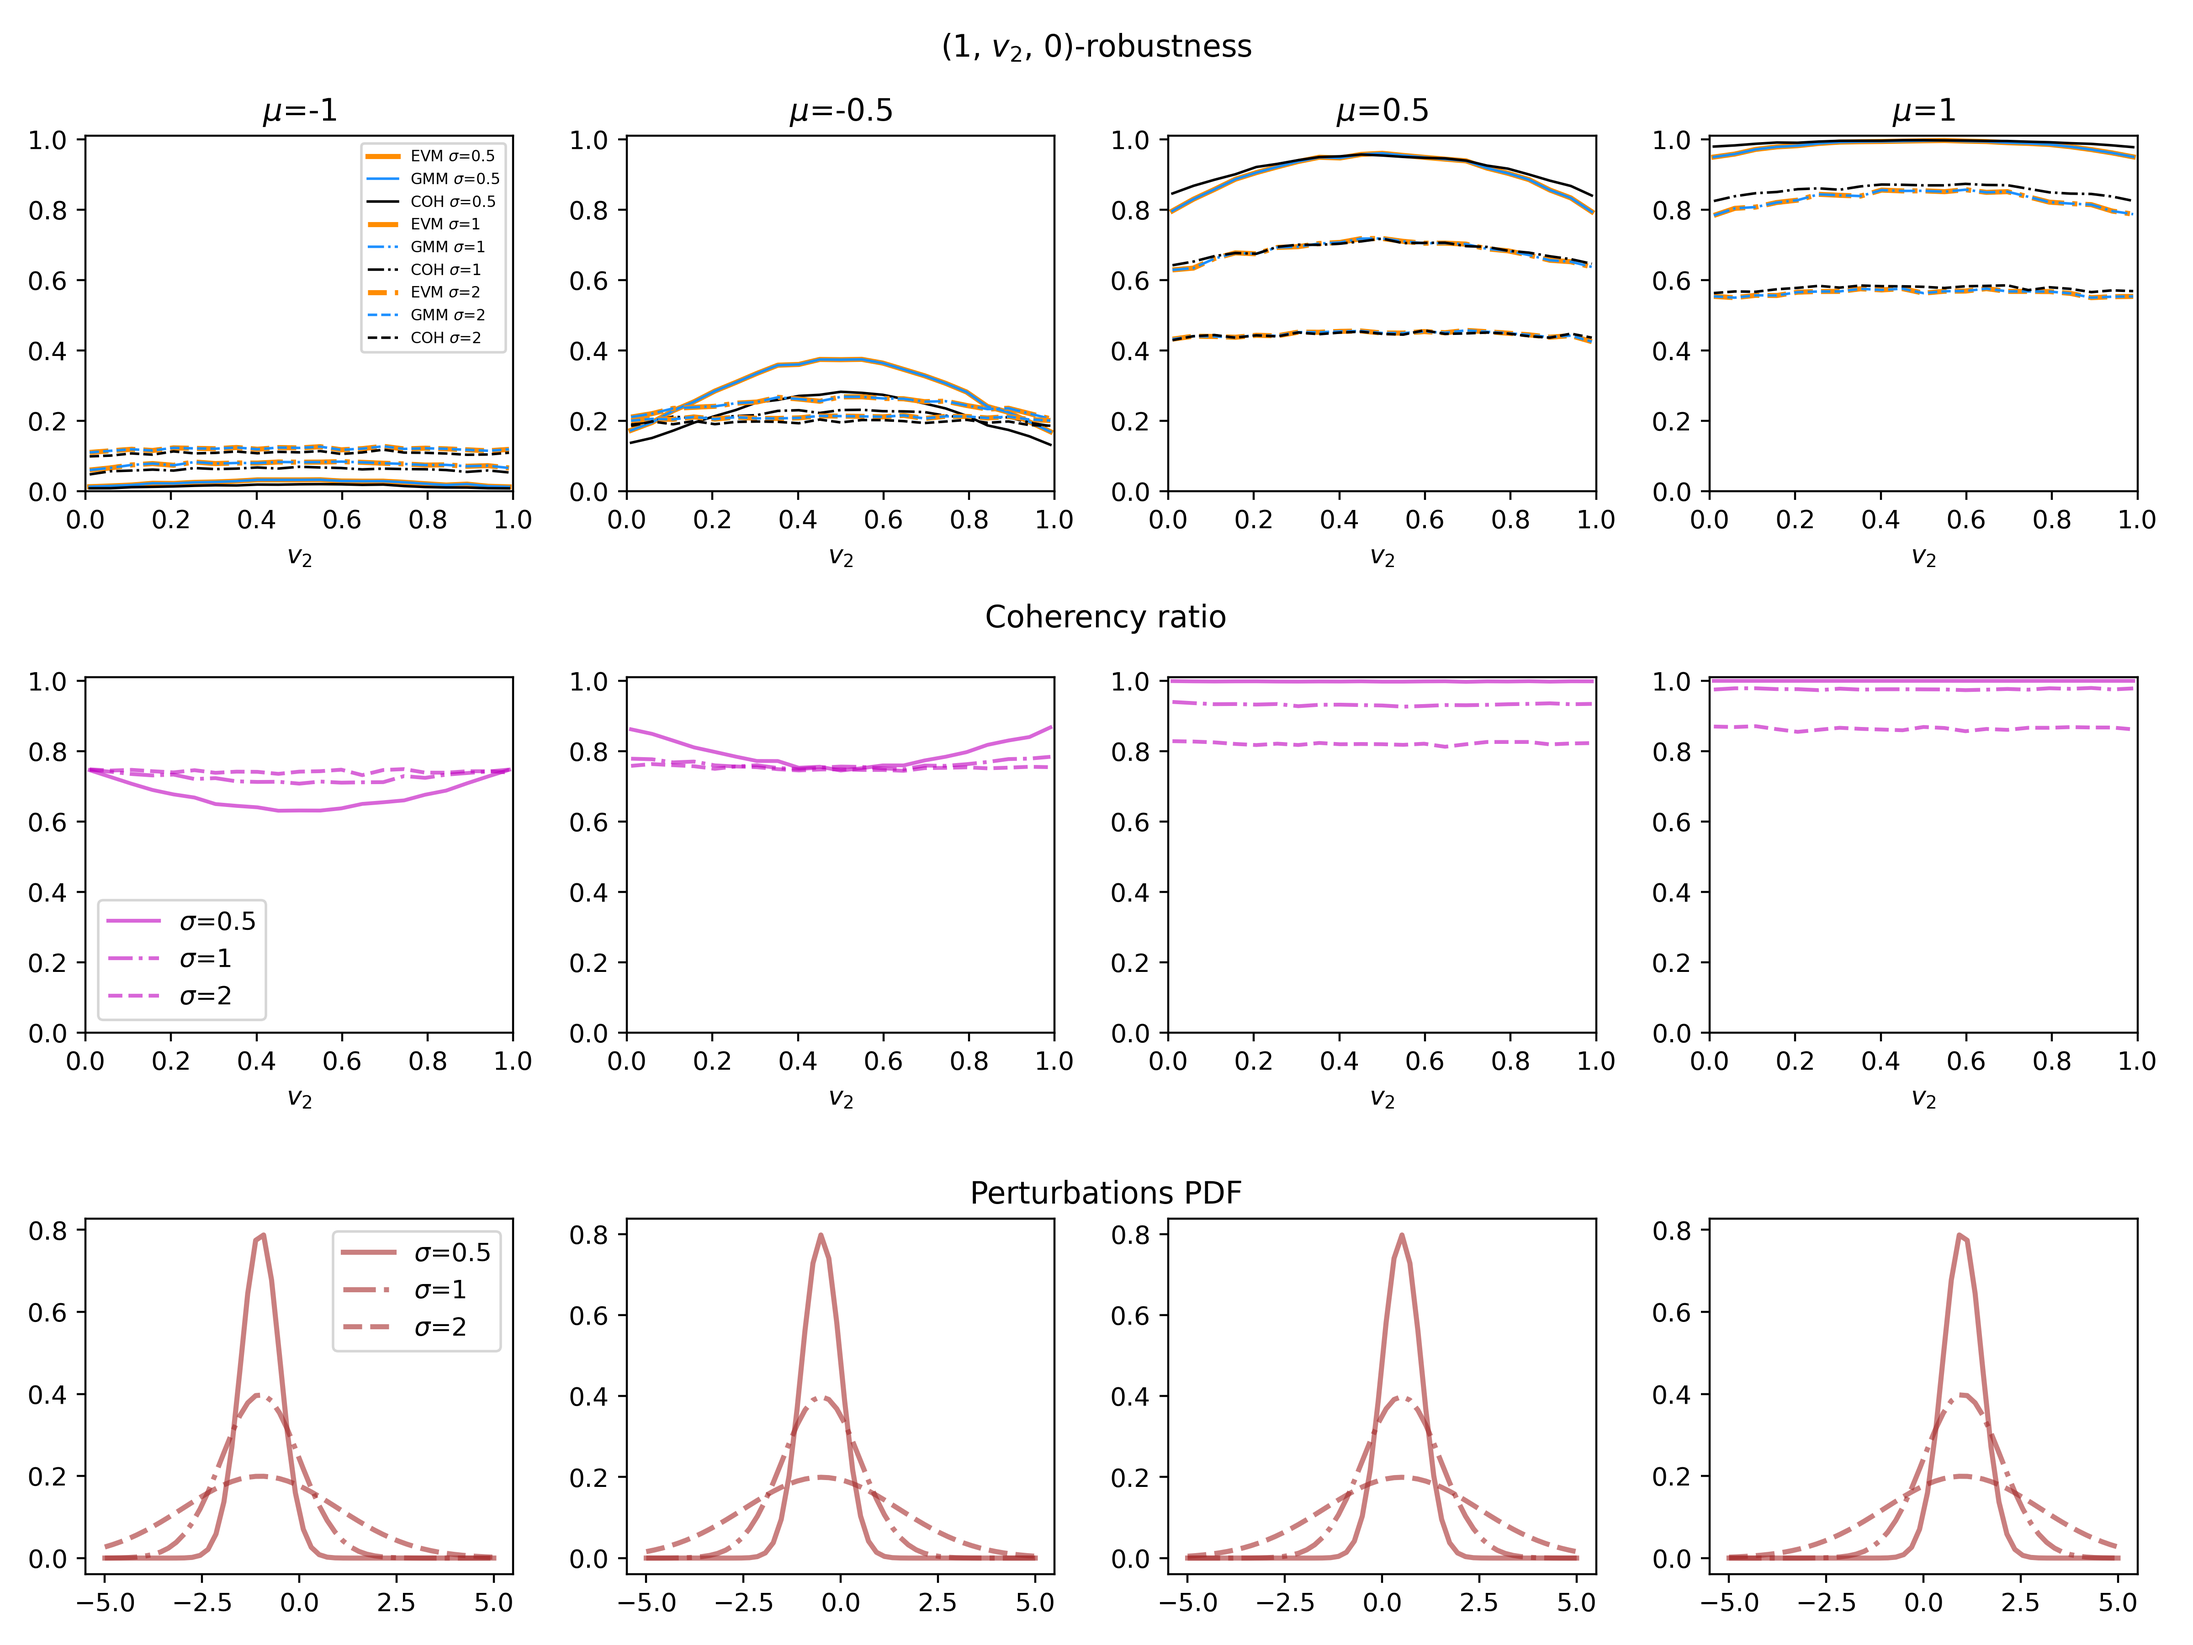
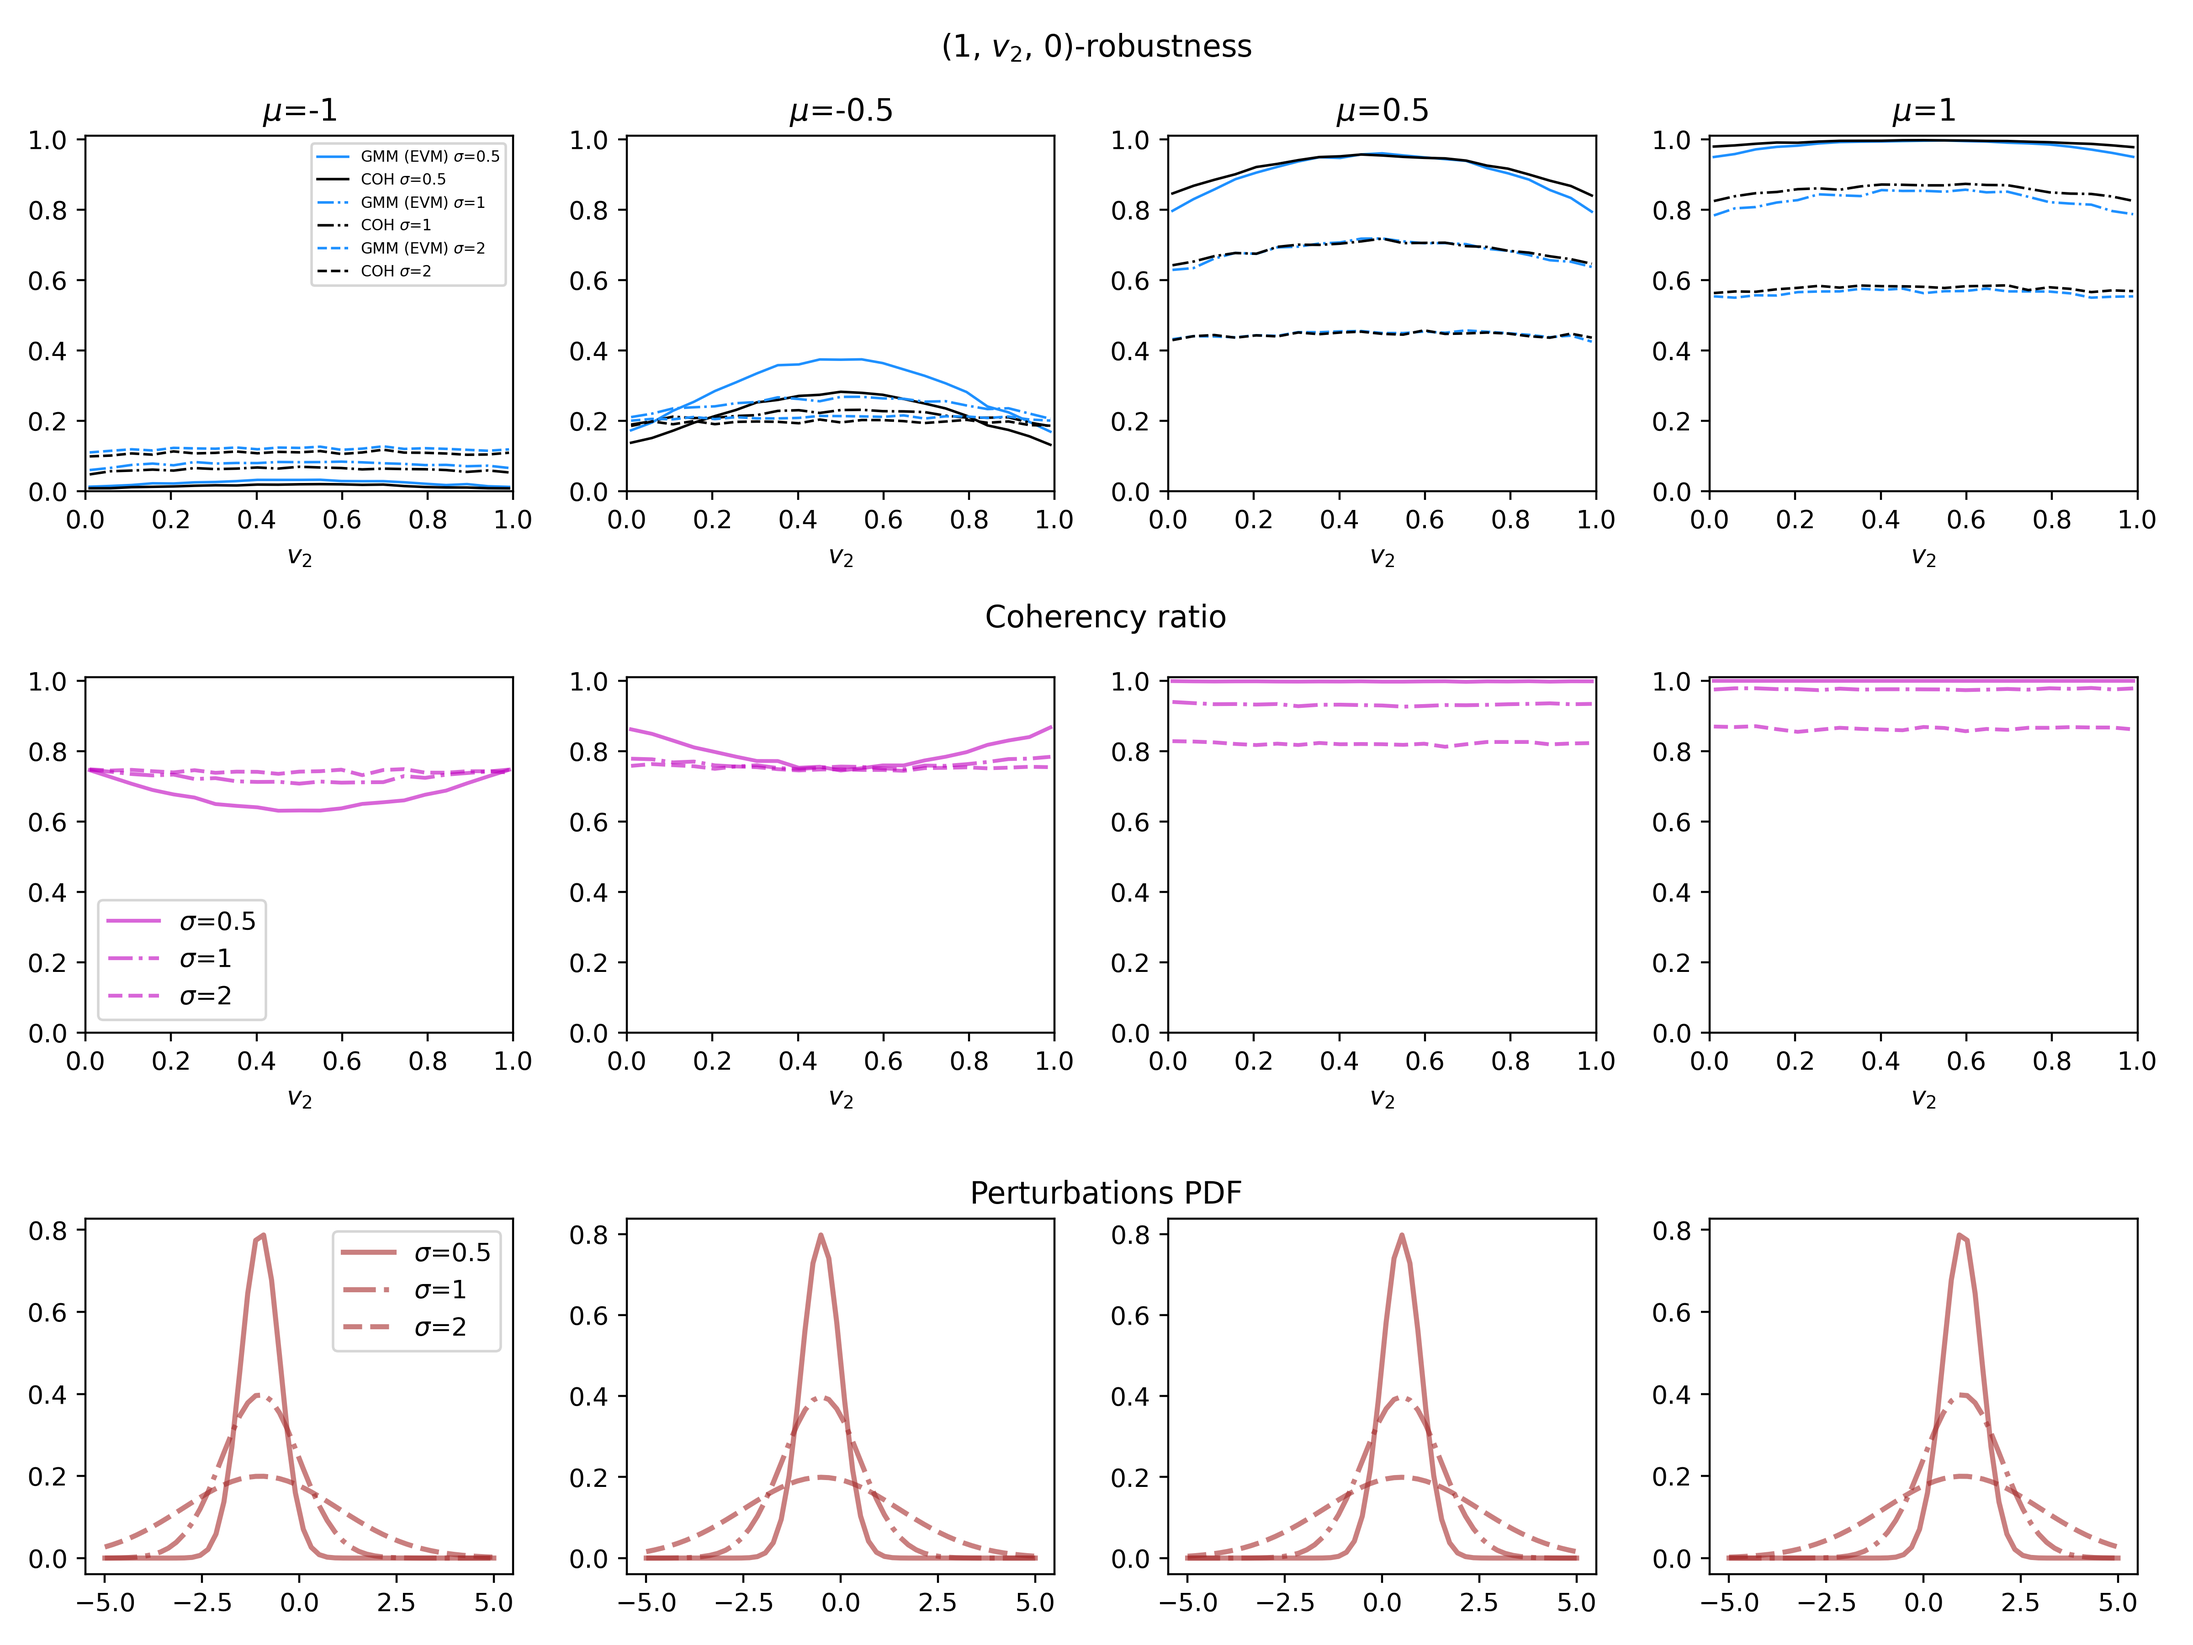
revisions done

diff --git a/robustness.py b/robustness.py
@@ -182,12 +182,13 @@ def plot_3D_one_type_R(robustness, cfg, v1, v2_space, v3):
     legend_rat = []
     for i_a, a in enumerate(robustness[first_sigma]):
         for i_sigma, sigma in enumerate(robustness):
-            for method in cfg.methods:
+            for method in cfg.methods[1:]: # as GMM and EVM coincide for n = 3, we show only one of these two
                 ax = axs[0, i_a]
                 ax.plot(v2_space, robustness[sigma][a]['cond_rough_' + method.name], ls = sigma_line_style[i_sigma], 
                         color = method.color, alpha = 1, lw = 2 if method.name == 'EVM' else 1)
                 if i_a == 0:
-                    legend.append(f'{method.name} ' r'$\sigma$=' + f'{sigma}')
+                    m_name = 'GMM (EVM)' if method.name == 'GMM' else method.name 
+                    legend.append(f'{m_name} ' r'$\sigma$=' + f'{sigma}')
             # coherence ratio
             ax = axs[1, i_a]
             ax.plot(v2_space, robustness[sigma][a]['COH_ratio'], ls = sigma_line_style[i_sigma], color = 'm', alpha = 0.6)
@@ -269,7 +270,7 @@ def plot_3D_analyt_COH(cfg):
             assert cfg.zero_mean_exp == True, "this plot serves just for cfg.zero_mean_exp = True exps"
             zero_mean_exp_f_addon = f'_ZME_{cfg.zero_mean_exp}'
             do_random_v_space_f_addon = f'_randv2_{cfg.do_random_v_space}'
-            res_fname = f'results/res_N_{N}{zero_mean_exp_f_addon}{do_random_v_space_f_addon}.bin'
+            res_fname = f'results/res_N_{N}{zero_mean_exp_f_addon}{do_random_v_space_f_addon}_COHonly_{cfg.coherent_PCMs_only}.bin'
             with open(res_fname, 'rb') as handle:
                 robustness, v1, v2_space, v3 = pickle.load(handle)    
             robustness = robustness[n] # robustness is computed just for n = 3, so take just these results
@@ -411,12 +412,13 @@ def sample_perturbed_PCMs(cfg):
     bins = np.linspace(0, 0.5, n_bins + 1) # linear space with n_bins bins
     if cfg.load_results:
         with open(res_fname, 'rb') as handle:
-            CRs, CR_hists = pickle.load(handle) 
+            CR_hists, CR_means = pickle.load(handle) 
     else: # compute results
         from config import SaatyEigenvectorMethod
         EVM = SaatyEigenvectorMethod() # we need only the EVM method here
-        CRs, CR_hists = defaultdict(lambda : {}), defaultdict(lambda : {})
+        CRs, CR_hists, CR_means = defaultdict(lambda : {}), defaultdict(lambda : {}), defaultdict(lambda : {})
         t_start = time()
+        np.random.seed(0) # replicability 
         for n in cfg.ns:
             for i_sigma, sigma in enumerate(cfg.sigmas):
                 if i_sigma == 0: # omit this plot as it is overlying with i_sigma == 1
@@ -430,10 +432,11 @@ def sample_perturbed_PCMs(cfg):
                     CRs[n][sigma].append(EVM.CR(noisy_pcm))
                 hist_counts = np.histogram(CRs[n][sigma], bins=bins)[0]
                 CR_hists[n][sigma] = hist_counts
+                CR_means[n][sigma] = np.mean(CRs[n][sigma])
         print(f'Computed in {int(time()-t_start)} s')
         # save results
         with open(res_fname, 'wb') as handle:
-            pickle.dump((dict(CRs), dict(CR_hists)), handle, protocol=pickle.HIGHEST_PROTOCOL)
+            pickle.dump((dict(CR_hists), dict(CR_means)), handle, protocol=pickle.HIGHEST_PROTOCOL)
 
     # plots
     fig = plt.figure(figsize=(12, 6), tight_layout=True)
@@ -454,14 +457,12 @@ def sample_perturbed_PCMs(cfg):
         for i_sigma, sigma in enumerate(cfg.sigmas):
             if i_sigma == 0: # omit this plot as it is overlying with i_sigma == 1
                 continue
-            #hist_counts, hist_edges = np.histogram(CRs[n][sigma], bins=bins)[0]
-            hist_counts = CR_hists[n][sigma]
-            ax.plot(middle_points, hist_counts + 1, color = colors[i_sigma], marker = 'o', # + 1 due to log scale
+            ax.plot(middle_points, CR_hists[n][sigma] + 1, color = colors[i_sigma], marker = 'o', # + 1 due to log scale
                     lw = 2, linestyle = linestyles[i_sigma], alpha = 0.5, label = r'$\sigma$=' + f'{sigma}')
-            ax_combined.plot(n, np.mean(CRs[n][sigma]), color = colors[i_sigma], marker = 'o',
+            ax_combined.plot(n, CR_means[n][sigma], color = colors[i_sigma], marker = 'o',
                              alpha = 0.5, label = r'$\sigma$=' + f'{sigma}')
         if i_n == 0:
-            ax.legend()
+            ax.legend(loc = 'lower right')
         ax.set_title(f'{n=}')
         ax.set_xlabel('CR')
         ax.set_ylabel('# perturbed PCMs')
@@ -483,17 +484,17 @@ def sample_perturbed_PCMs(cfg):
 # TODO: urceno jen pro testovani, pak smazat
 def replicate():
     # Switch to True in order to replicate the desired result(s)
-    to_replicate = {'Figure1': 0, 
-                    'Figure2': 0,
-                    'Figure3': 0,
-                    'Figure4': 0,
-                    'Figure5': 0,
-                    'Figure6': 1}
+    to_replicate = {'Figure1': 1, 
+                    'Figure2': 1,
+                    'Figure3': 1,
+                    'Figure4': 1,
+                    'Figure5': 1,
+                    'Figure6': 0}
 
     if to_replicate['Figure1']:
         for N in [100, 1000, 10000]:
             cfg = Cfg(N = N, do_random_v_space = False, zero_mean_exp = True,  coherent_PCMs_only = True,
-                      load_results = 1, save_fig = 0, plot_type = 'analytical' if N == 10000 else None) 
+                      load_results = 1, save_fig = 1, plot_type = 'analytical' if N == 10000 else None) 
             # NOTE: (explaining plot_type) we first compute the results for N in [100, 1000] without showing the plot, and 
             #       then for N = 10000 we compute the results as well as we show the plot 
             exp_prob_wrapper(cfg) # Takes roughly 10 minutes to compute (on Intel(R) Core(TM) i7-7700 CPU @3.60GHz and 32GB RAM)
@@ -501,7 +502,7 @@ def replicate():
 
     if to_replicate['Figure2']:
         cfg = Cfg(N = 10000, do_random_v_space = False, zero_mean_exp = True, coherent_PCMs_only = True,
-                    load_results = 0, save_fig = 0, plot_type = 'numerical') 
+                    load_results = 1, save_fig = 1, plot_type = 'numerical') 
         exp_prob_wrapper(cfg) # Takes roughly 10 minutes to compute
                               # To get some results faster, decrease N (and expect less smooth outputs)  
     
@@ -512,7 +513,7 @@ def replicate():
 
     if to_replicate['Figure4']:
         cfg = Cfg(N = 100000, do_random_v_space = True, zero_mean_exp = True, coherent_PCMs_only = True,
-                    load_results = 1, save_fig = 0, plot_type = 'numerical') 
+                    load_results = 1, save_fig = 1, plot_type = 'numerical') 
         exp_prob_wrapper(cfg) # Takes roughly 70 minutes to compute
 
     if to_replicate['Figure5']:
@@ -522,8 +523,8 @@ def replicate():
 
     if to_replicate['Figure6']:
         cfg = Cfg(N = 10**6, do_random_v_space = True, zero_mean_exp = True, coherent_PCMs_only = False,
-                    load_results = 0, save_fig = 0, plot_type = 'numerical') 
-        sample_perturbed_PCMs(cfg) # Takes roughly ?? minutes to compute
+                    load_results = 1, save_fig = 1, plot_type = 'numerical') 
+        sample_perturbed_PCMs(cfg) # Takes roughly 140 minutes to compute
 
 
 def three_examples(): # TODO: necham to i do main branch
